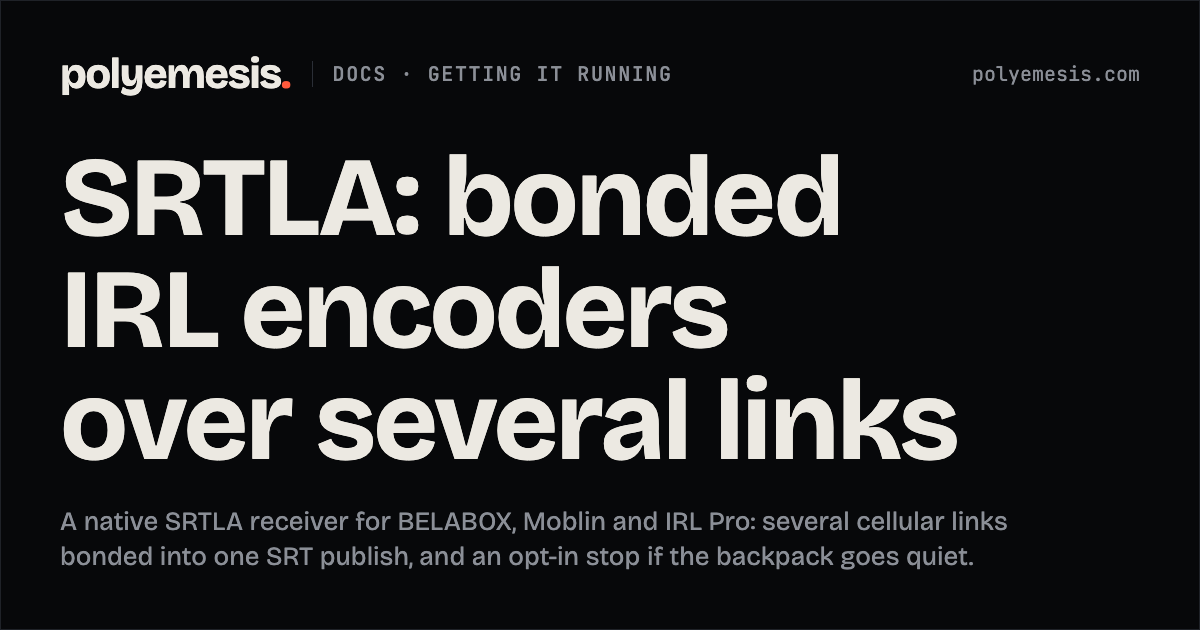
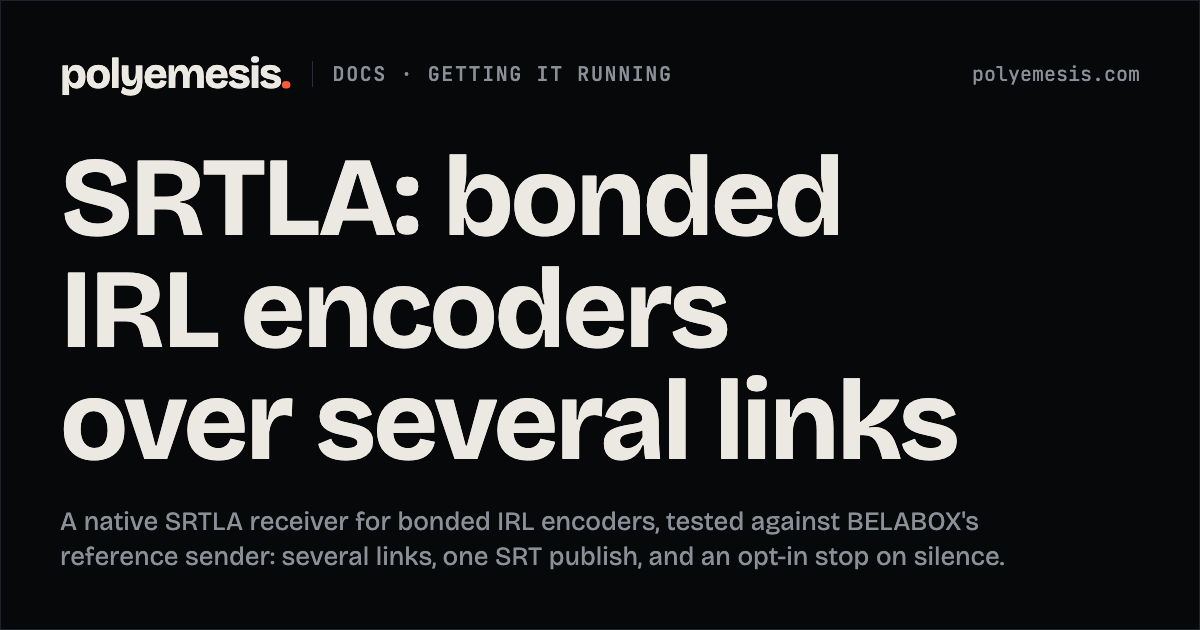
site: the docs index describes the SRTLA guide as the guide describes itself
Claude-Session: https://claude.ai/code/session_016Mn1KjjUD4CwGFdwYj55F2

Changed region(s): [[0.0617, 0.8143, 0.8633, 0.9048]]

diff --git a/web/src/lib/features-data.test.ts b/web/src/lib/features-data.test.ts
@@ -53,6 +53,14 @@ describe("the features data", () => {
     expect(row).toMatch(/several links/);
   });
 
+  it("describes the SRTLA guide in the docs index as the guide does: tested against srtla_send, no encoder named as supported", () => {
+    const d = BY_SLUG.get("srtla")!.description;
+    expect(d).not.toMatch(/Moblin|IRL Pro/);
+    expect(d).not.toMatch(/works? with|supports?|compatible/i);
+    expect(d).toMatch(/tested against BELABOX's reference sender/);
+    expect(d.length).toBeLessThanOrEqual(155);
+  });
+
   it("has four recording verbs and a non-empty list for each fact set", () => {
     expect(RECORDING_VERBS.map((v) => v.verb)).toEqual(["Record", "Offload", "Transcribe", "Clip"]);
     for (const list of [FAILOVER_FACTS, CHAT_FACTS, DECK_FACTS]) expect(list.length).toBeGreaterThan(0);
